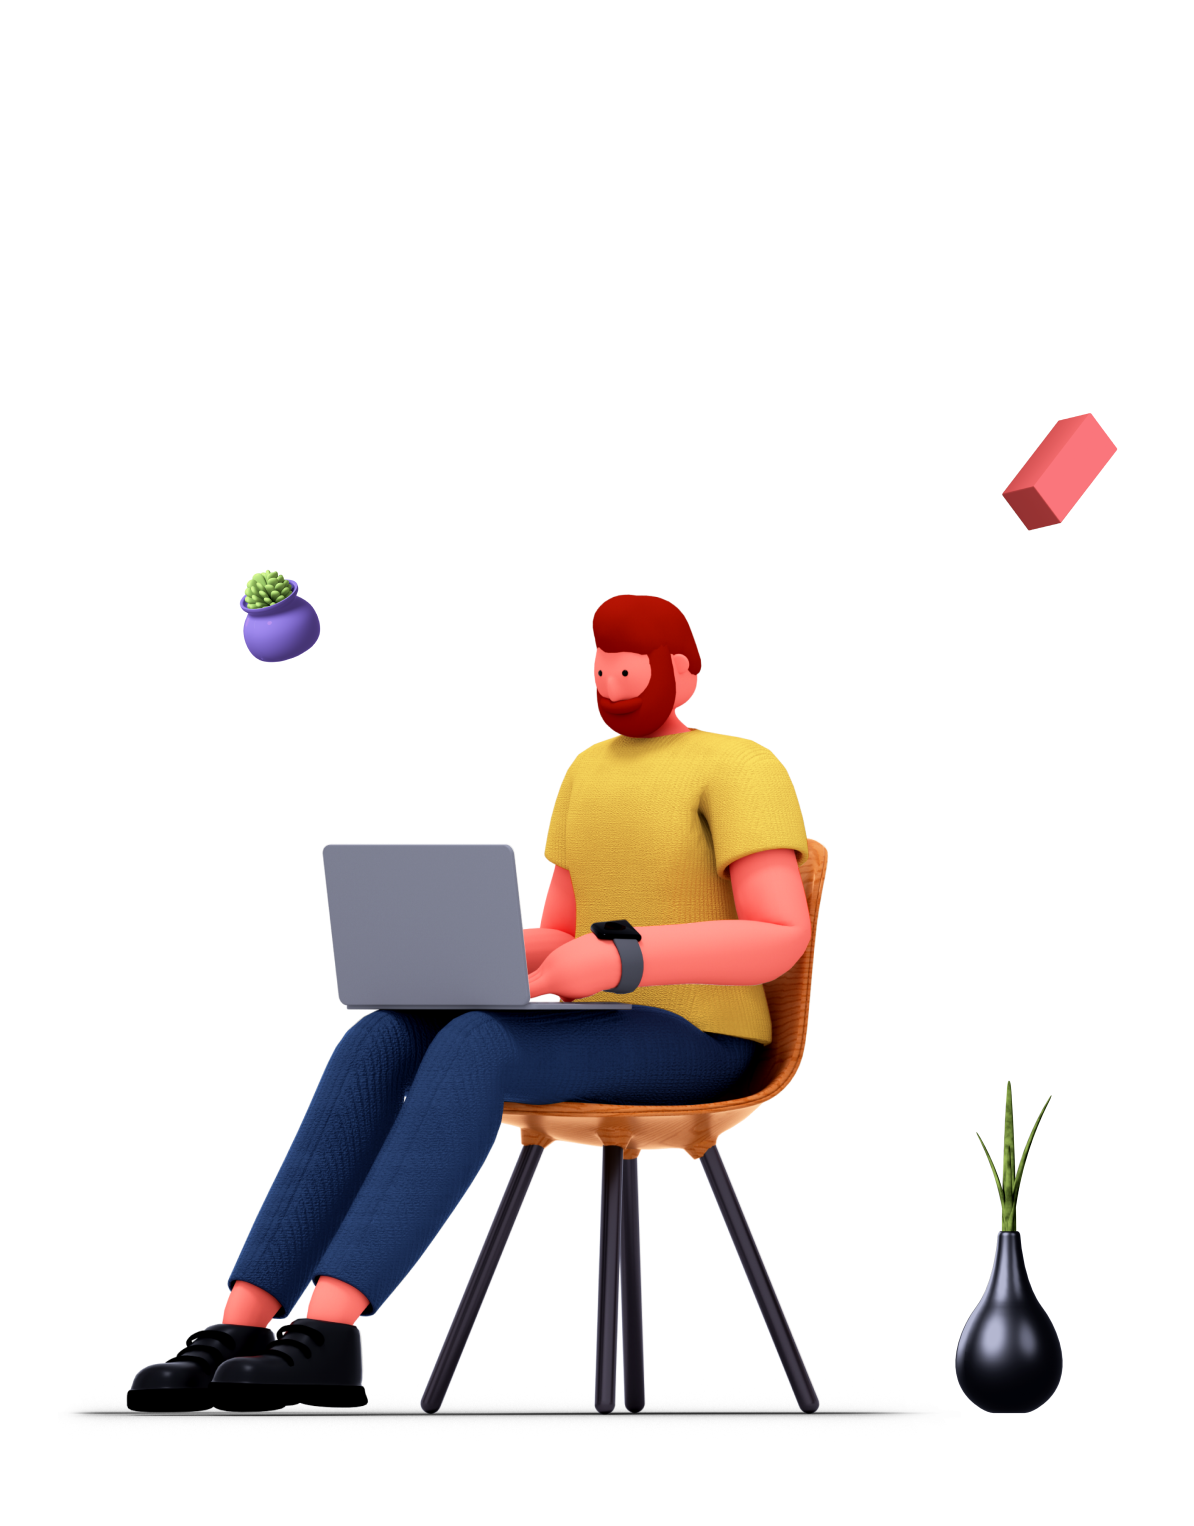
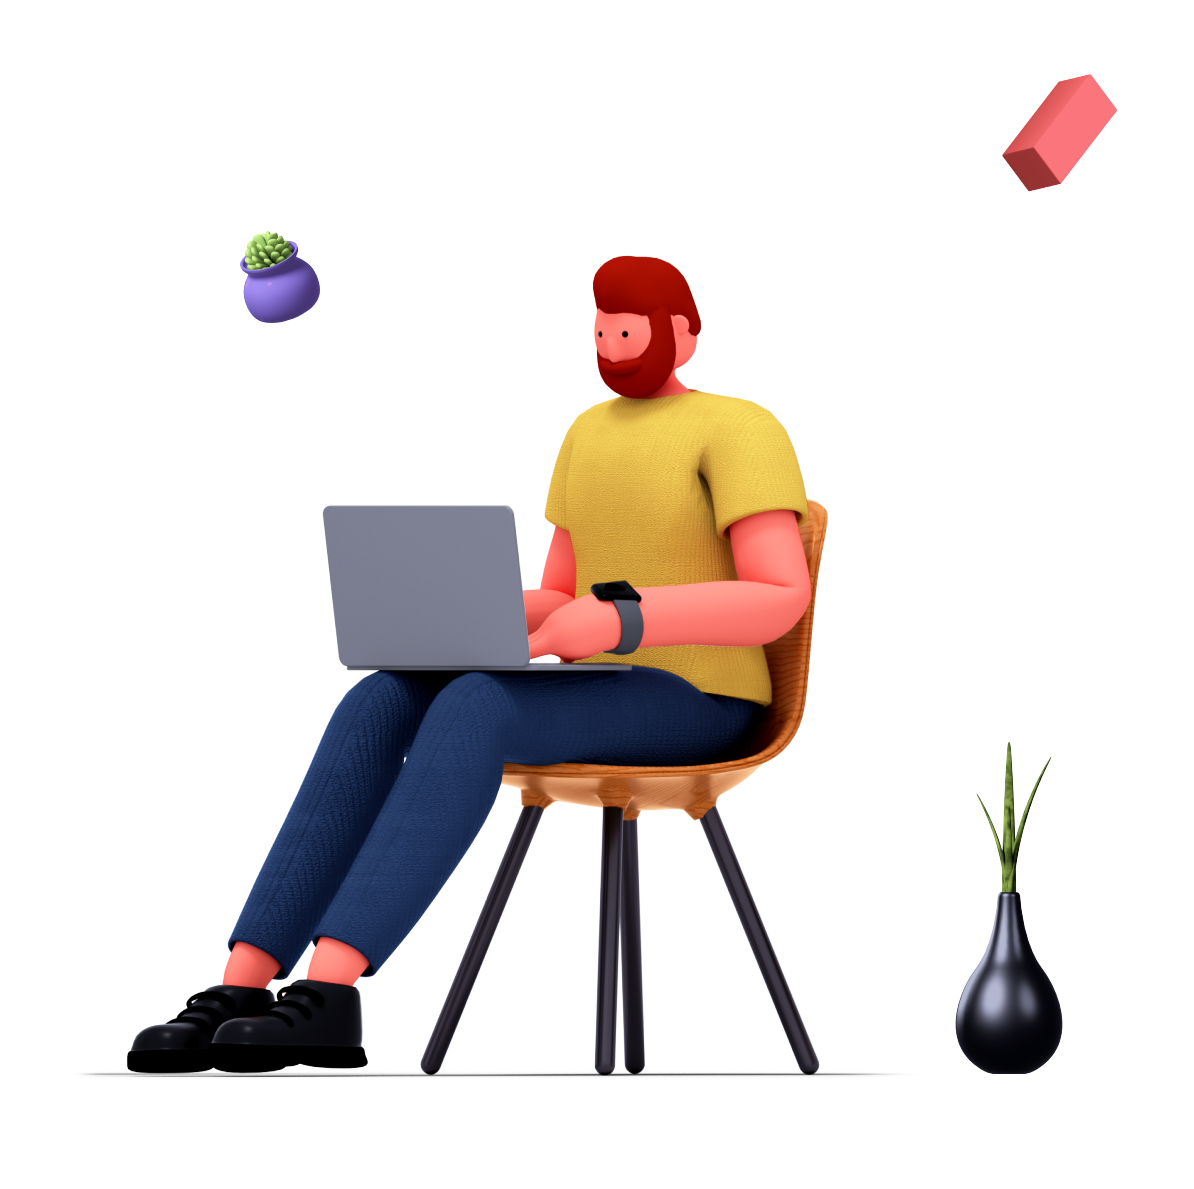
resolve x-axis scroll bug

diff --git a/src/pages/HomePage.jsx b/src/pages/HomePage.jsx
@@ -73,7 +73,8 @@ const ServiceCard = ({ title, description, icon, bgColor }) => {
 const HomePage = () => {
   return (
     <div>
-      <div className="container min-h-screen max-w-full bg-[#1090cb46]">
+      {/* bg-[#1090cb46] */}
+      <div className="container min-h-screen max-w-full ">
         <img
           src="/sideImage.png"
           className="absolute right-0 bottom-10 h-[40vh] w-[40px] md:h-[50vh] md:w-[50px] lg:h-[60vh] lg:w-[60px]"
@@ -98,9 +99,6 @@ const HomePage = () => {
               platforms, including Android & IOS.{" "}
             </p>
             <div className="flex gap-3 items-center">
-              {/* <button className="bg-[#1090CB] px-4 py-2 rounded-md capitalize text-white hover:bg-white hover:border hover:border-[#1090CB] hover:text-[#1090CB] hover:ease-in">
-              contact us
-            </button> */}
               <button className="bg-[#1090CB] px-4 py-2 rounded-md capitalize text-white border border-transparent hover:bg-white hover:border-[#1090CB] hover:text-[#1090CB] transition duration-300 ease-in-out">
                 Contact Us
               </button>
@@ -122,7 +120,7 @@ const HomePage = () => {
               {/* Blur Circle */}
               <div className="w-64 h-64 bg-[#e7e19f] blur-3xl rounded-full"></div>
             </div>
-            <div className="max-w-xs md:max-w-lg">
+            <div className="max-w-auto md:max-w-lg">
               <img src="/heroImage.png" alt="Hero Image" />
             </div>
           </motion.div>

diff --git a/src/App.jsx b/src/App.jsx
@@ -13,7 +13,7 @@ import ScrollToTop from "./components/ScrollToTop";
 function App() {
   const location = useLocation();
   return (
-    <>
+    <div className="AppWrapper">
       <ScrollToTop />
       <Navbar />
       <Routes>
@@ -25,7 +25,7 @@ function App() {
       </Routes>
       {location.pathname !== "/contact" && <SubscribeBox />}
       <Footer />
-    </>
+    </div>
   );
 }
 

diff --git a/src/App.css b/src/App.css
@@ -1,0 +1,10 @@
+html, body {
+    margin: 0;
+    padding: 0;
+    overflow: auto;
+  }
+  .AppWrapper {
+    overflow-x: hidden;
+    overflow-y: hidden;
+  }
+  
